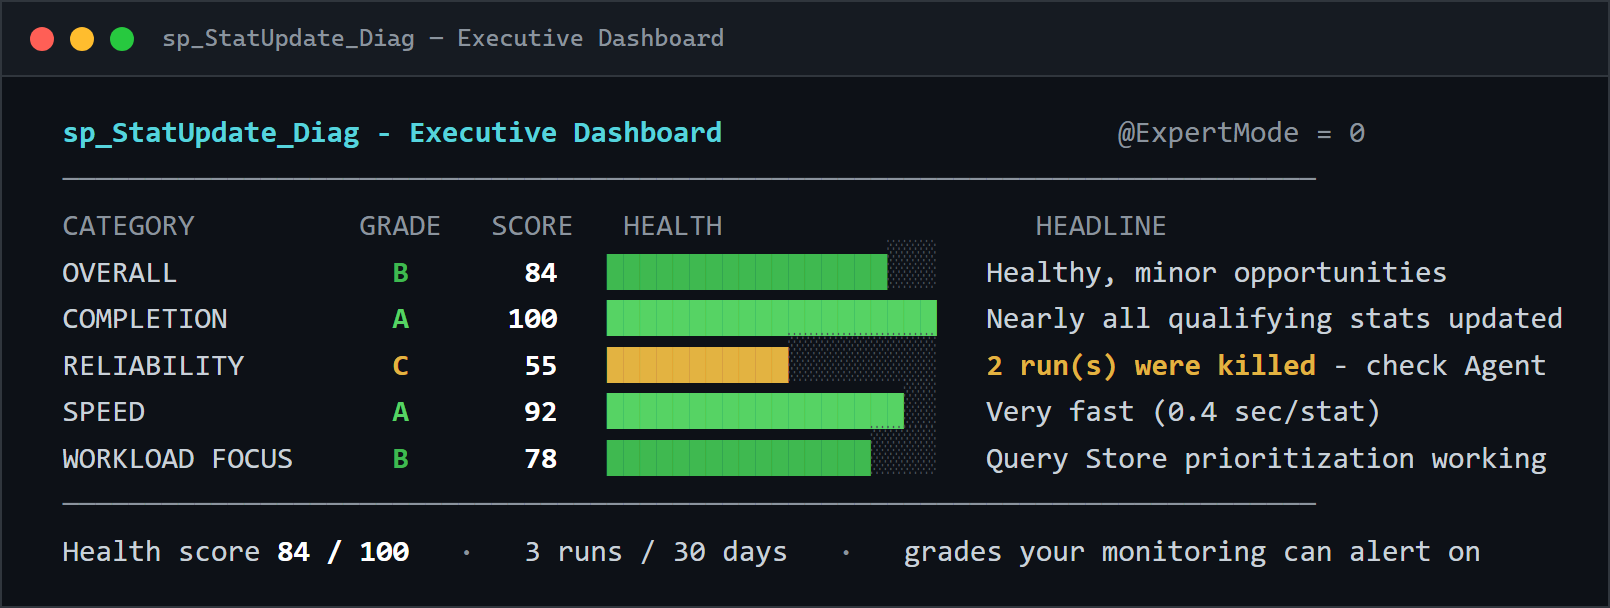
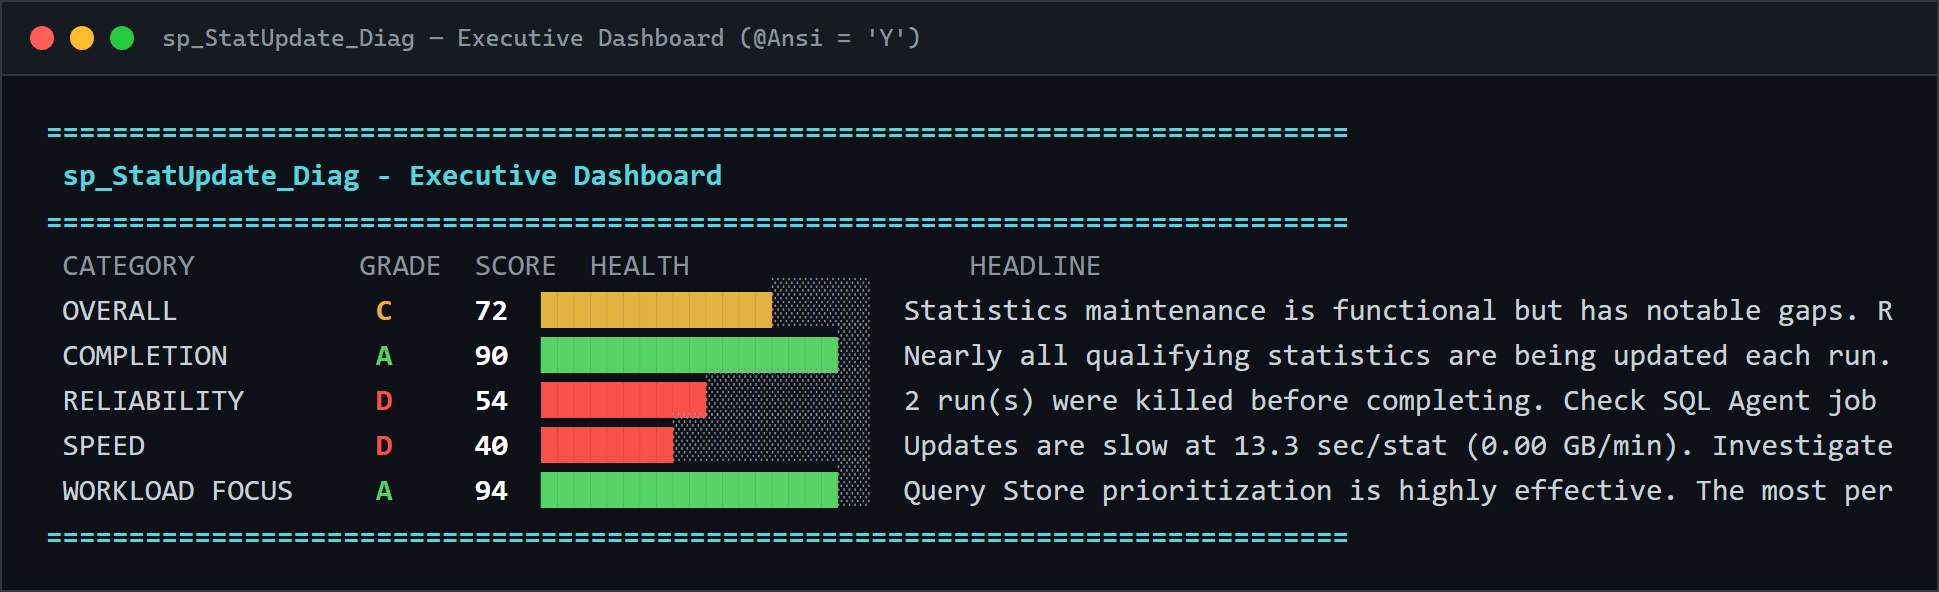
feat: @Ansi console dashboard in Diag + env coloring + truthful screenshots
sp_StatUpdate_Diag: new opt-in @Ansi param. When Y, also renders the Executive
Dashboard and Recommendations as colorized text on the Messages stream via
RAISERROR, in addition to the normal result sets. Reads the already-populated
#executive_dashboard / #recommendations temp tables, so grades/scores/headlines/
severities are identical to the result sets (no recomputation). Block glyphs via
NCHAR() (deployment-safe), dynamic lines %-escaped (findings contain literal '%').
Console-only: result sets, history, and OUTPUT params untouched. Diag 2026.07.25.1.

sp_StatUpdate: extend @Ansi to the @Debug environment block (cyan section headers,
white hardware counts, green tempdb/AG-healthy values, green active trace flags).

README screenshots: replaced the earlier hand-built mockups with REAL @Ansi='Y'
console captures (tool output -> ANSI -> PNG). The mockups oversold the visuals
(invented checkmarks, per-line QS-CPU tags, comma-formatted numbers); the new
shots are the tool's actual output. Prose updated to match (real grades: OVERALL
C, RELIABILITY D; mod-counter ordering; etc.).

Verified live on SQL 2025: full main suite ALL PASSED (8/8), Diag suite 266/266.
Both @Ansi paths exercised; OFF path byte-identical.

Claude-Session: https://claude.ai/code/session_01Dd4HNMgWi2a9Eb4e44zD61

diff --git a/README.md b/README.md
@@ -10,23 +10,25 @@
 
 ## See It Run
 
-**A NIGHTLY run, live** -- worst stats first (Query Store CPU), per-stat progress, an AG-safety pause, and a *graceful* stop at the time limit with everything it didn't reach logged, not lost:
+*The screenshots below are **real `@Ansi = 'Y'` console captures** -- not mockups. Numbers vary with your workload.*
 
-![sp_StatUpdate NIGHTLY run: worst stats first by Query Store CPU, an AG-safety pause, and a graceful stop at the time limit with everything it did not reach logged, not lost](assets/demo-run.png)
+**A run, live** -- worst stats first, per-stat progress with a live ETA, and a clean summary where every stat is accounted for:
 
-**The diagnostic dashboard** -- letter grades your boss understands and your monitoring can alert on. RELIABILITY is a C because two runs got killed; the tool noticed, even if nobody else did:
+![sp_StatUpdate run with @Ansi='Y': worst stats first by modification count, per-stat progress with live ETA, and a summary counting every stat](assets/demo-run.png)
 
-![sp_StatUpdate_Diag Executive Dashboard: letter grades your boss understands and your monitoring can alert on](assets/demo-dashboard.png)
+**The diagnostic dashboard** -- letter grades your boss understands and your monitoring can alert on. RELIABILITY is a D because two runs got killed; the tool noticed, even if nobody else did:
 
-**It reads the room** -- @Debug = 1 reports everything that changes how statistics behave (CE version, trace flags, AG role, tempdb) and flags what will bite you:
+![sp_StatUpdate_Diag Executive Dashboard with @Ansi='Y': A-F letter grades, health scores, and colored health bars per category](assets/demo-dashboard.png)
 
-![sp_StatUpdate Environment Intelligence at @Debug = 1: CE version, trace flags, AG role, tempdb, and the conditions that will bite you](assets/demo-environment.png)
+**It reads the room** -- `@Debug = 1` reports what changes how statistics behave (trace flags, CPU/NUMA/memory, tempdb headroom) and flags what will bite you:
+
+![sp_StatUpdate Environment Intelligence at @Debug=1, @Ansi='Y': trace flags, CPU/NUMA/memory, and tempdb headroom](assets/demo-environment.png)
 
 **It doesn't just diagnose -- it prescribes.** Copy-paste the EXEC it built for *your* server:
 
-![sp_StatUpdate_Diag Recommendations: prioritized findings plus a copy-paste EXEC tuned for this server](assets/demo-recommendations.png)
+![sp_StatUpdate_Diag Recommendations with @Ansi='Y': severity-colored findings plus copy-paste EXEC calls tuned for this server](assets/demo-recommendations.png)
 
-> **About the color:** the console output is really colorized -- pass `@Ansi = 'Y'` (opt-in; default is plain text). The escape codes are **console-only** and never touch CommandLog, OUTPUT parameters, or result sets.
+> **About the color:** every screenshot above is the tool's own output with `@Ansi = 'Y'` (opt-in; default is plain text). For `sp_StatUpdate` the run/environment console is colorized; for `sp_StatUpdate_Diag`, `@Ansi = 'Y'` *also* renders the Dashboard and Recommendations as colored text on the Messages stream, in addition to the normal result sets. The escape codes are **console-only** and never touch CommandLog, OUTPUT parameters, or result sets.
 >
 > Color renders in **Windows Terminal, VS Code's integrated terminal, iTerm2/Terminal.app, Linux terminals, `sqlcmd | less -R`, and CI log viewers**. It shows **raw escape codes** (so leave `@Ansi` off) in **SSMS, Azure Data Studio, DataGrip/DBeaver, PowerShell ISE, legacy `cmd.exe`, SQL Agent job logs, and files** -- i.e. don't enable it for SSMS or Agent jobs. Only basic 16-color SGR codes are used, so wherever ANSI works at all, these do.
 
